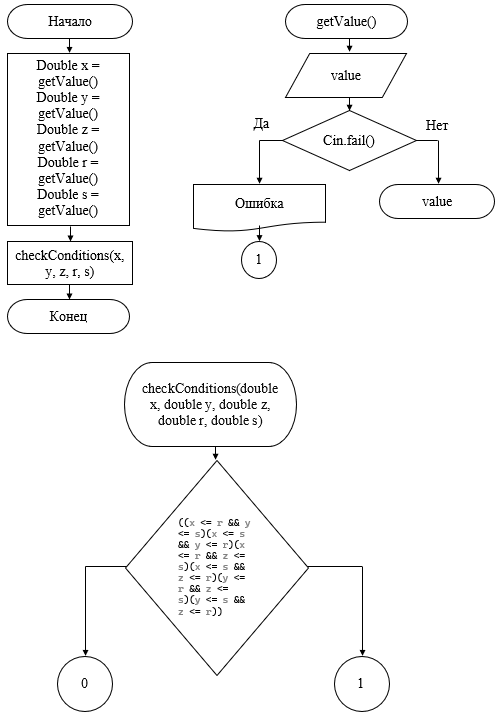
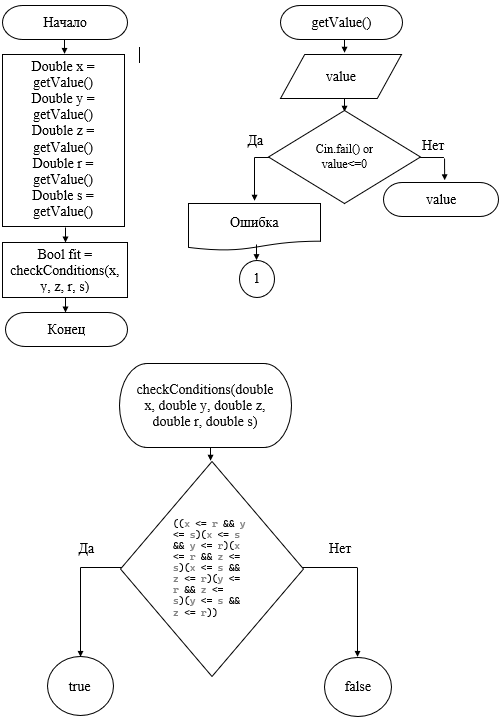
Add files via upload

diff --git a/Задание 3.cpp b/Задание 3.cpp
@@ -1,5 +1,4 @@
 #include <iostream>
-
 using namespace std;
 /**
 * @breef Считывает значение с клавиатуры с проверкой ввода
@@ -7,15 +6,15 @@ using namespace std;
 */
 double getValue();
 /**
- * @brief Проверяет условия прохождения кирпича через отверстие
- * @param x Длина кирпича
- * @param y Ширина кирпича
- * @param z Высота кирпича
- * @param r Длина отверстия
- * @param s Ширина отверстия
- * @return 0, если кирпич проходит, иначе 1
- */
-int checkConditions(double x, double y, double z, double r, double s);
+* @breef Принимает переменные и проверяет условие прохождения кирпича через отверстие.
+* @param x - длина кирпича.
+* @param y - ширина кирпича.
+* @param z - высота кирпича.
+* @param r - длина отверстия.
+* @param s - ширина отверстия.
+* @return Возвращает результат проверки условия.
+*/
+bool checkConditions(double x, double y, double z, double r, double s);
 /**
 * @breef - главная функция программы
 * @return - возвращает 0, если функция выполнена верно, иначе 1.
@@ -31,28 +30,34 @@ int main() {
     double r = getValue();
     cout << "Enter hole width = ";
     double s = getValue();
-    checkConditions(x, y, z, r, s);
 
-    return 0;
-}
-int checkConditions(double x, double y, double z, double r, double s) {
-    if ((x <= r && y <= s) || (x <= s && y <= r) ||
-        (x <= r && z <= s) || (x <= s && z <= r) ||
-        (y <= r && z <= s) || (y <= s && z <= r)) {
+    bool fit = checkConditions(x, y, z, r, s);
+
+    if (fit) {
         cout << "The brick goes through the hole." << endl;
-        return 0;
     }
     else {
         cout << "The brick does not fit through the hole." << endl;
-        return 1;
+    }
+
+    return 0;
+}
+
+bool checkConditions(double x, double y, double z, double r, double s) {
+    if ((x <= r && y <= s) || (x <= s && y <= r) ||
+        (x <= r && z <= s) || (x <= s && z <= r) ||
+        (y <= r && z <= s) || (y <= s && z <= r)) {
+        return true;
+    }
+    else {
+        return false;
     }
 }
-    double getValue()
-{
+
+double getValue() {
     double value;
     cin >> value;
-    if (cin.fail())
-    {
+    if (cin.fail() || value <= 0) {
         cout << "incorrect value" << endl;
         abort();
     }
